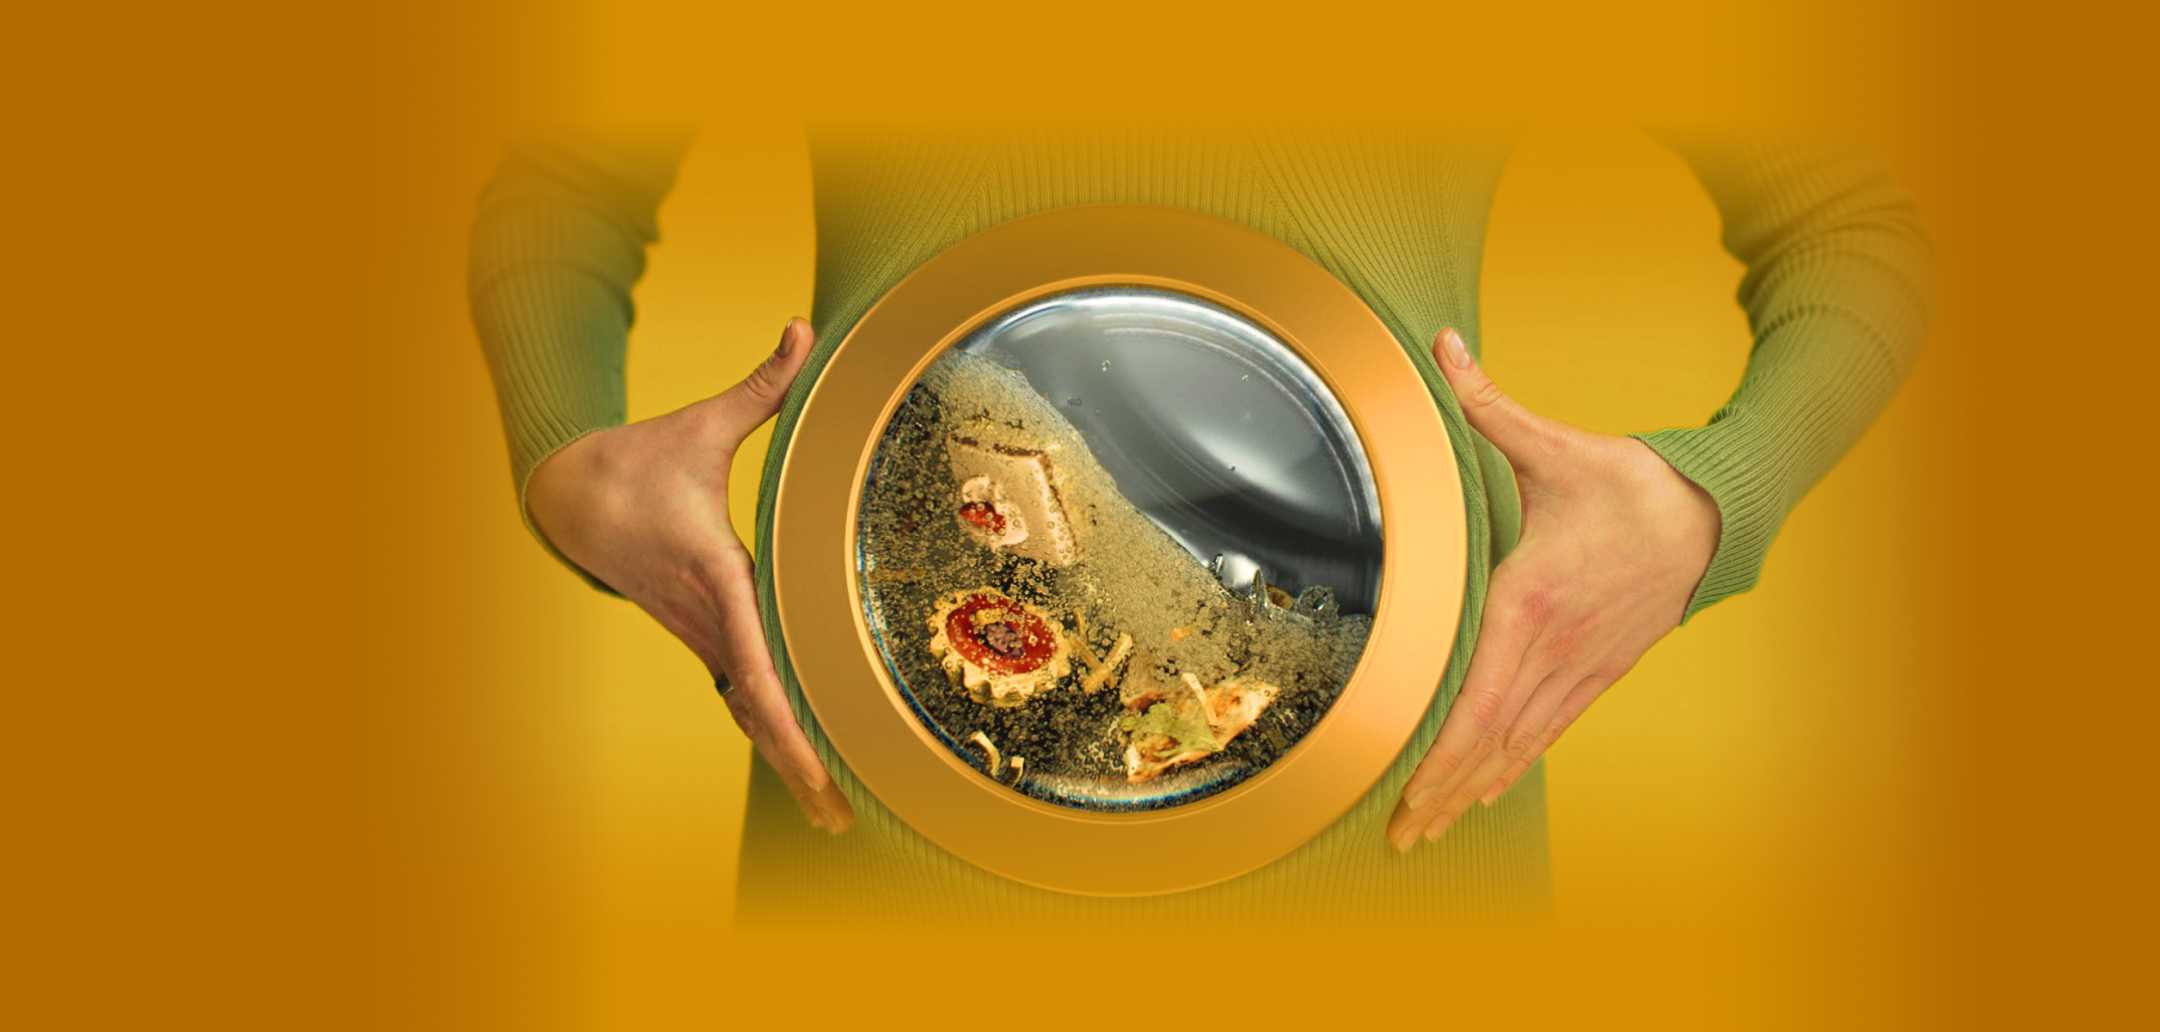
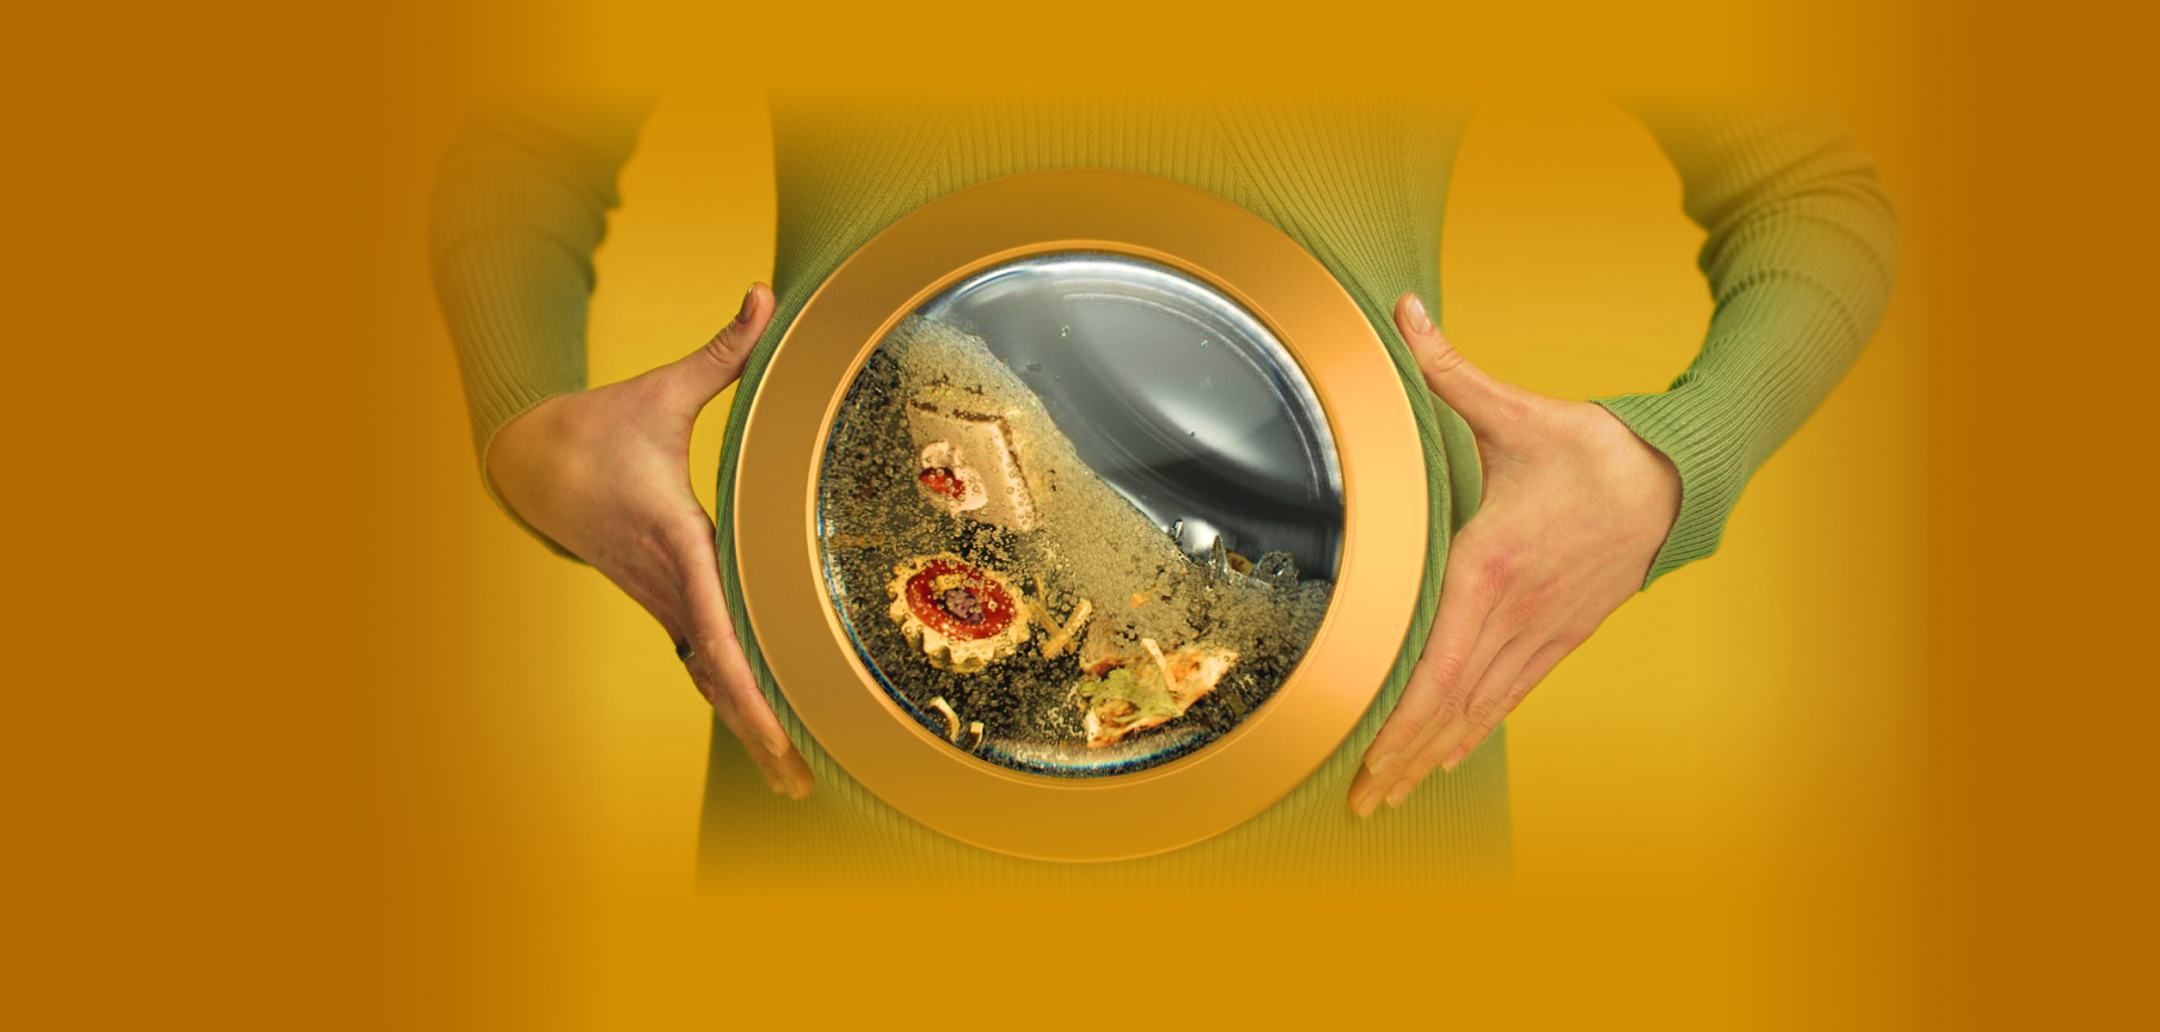
rotate reel

Changed region(s): [[0.1861, 0.093, 0.8995, 0.8992]]

diff --git a/src/scss/blocks/main.scss b/src/scss/blocks/main.scss
@@ -10,7 +10,7 @@
   left: 0;
   width: 100%;
   height: 100%;
-  //animation: 20s normal rotate;
+  animation: 10s normal rotate;
 
   & > img {
     width: 100%;
@@ -19,17 +19,22 @@
   }
 }
 
-//@keyframes rotate {
-//  0% {
-//    transform: rotate(0deg);
-//  }
-//  100% {
-//    transform: rotate(1800deg);
-//  }
-//}
+@keyframes rotate {
+  0% {
+    transform: rotate(0deg);
+  }
+  100% {
+    transform: rotate(1800deg);
+  }
+}
 
 .main__third {
   padding-bottom: 24px;
+}
+
+.main__first-block {
+  position: relative;
+  z-index: 1;
 }
 
 .main__first-block, .main__second-block {

diff --git a/src/index.html b/src/index.html
@@ -57,9 +57,9 @@
     </header>
     <div class="main" id="fullpage">
       <div class="main__first section" style="background-image: url('assets/img/main/bg.jpg')">
-<!--        <div class="main__first-reel">-->
-<!--          <img src="assets/img/main/123.png" alt="">-->
-<!--        </div>-->
+        <div class="main__first-reel">
+          <img src="assets/img/main/123.png" alt="">
+        </div>
         <div class="container">
           <div class="main__first-block">
             <div class="main__first-left">
